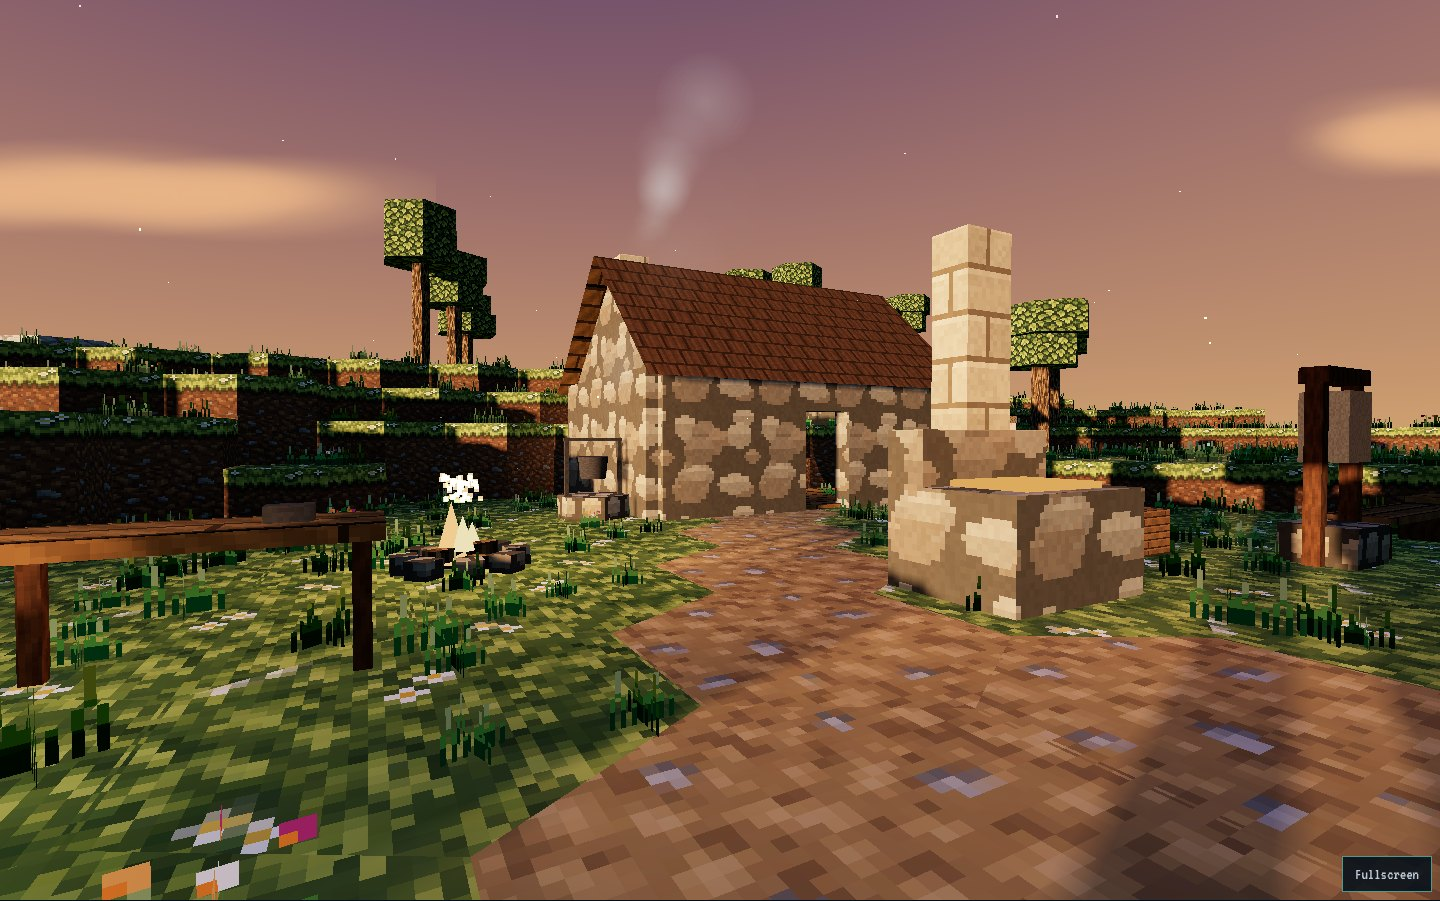
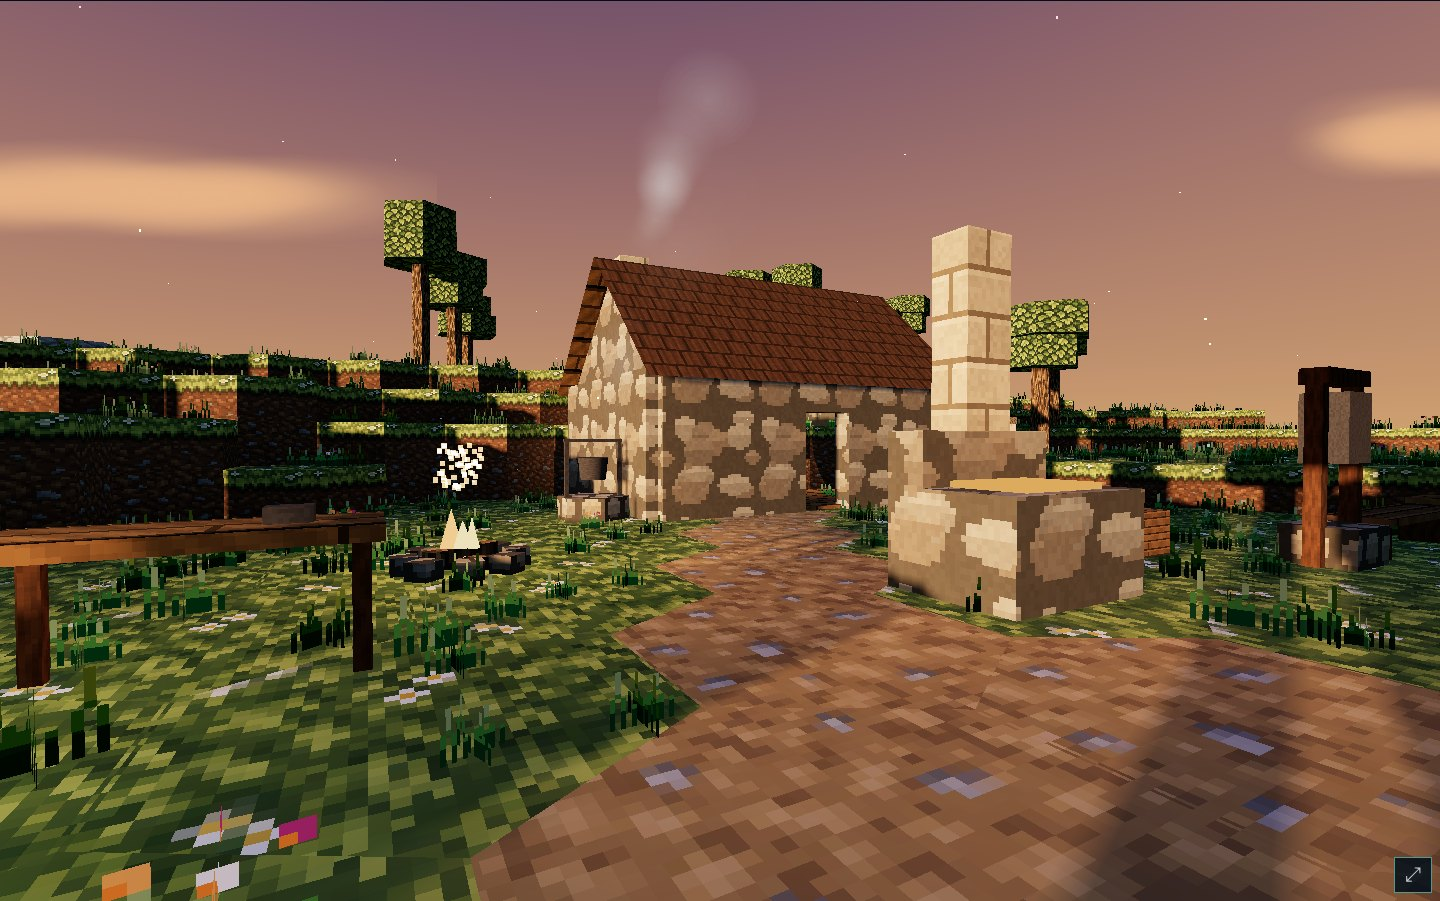
M29: info modals and a Play fullscreen button (published as v6, in progress)
The owner: "Too much text on screen ... Where's the full screen button,
should open in horizontal", then "Republish". Published at the owner's
ask before the agent's full test run: loads with no errors on desktop
and a Pixel 7 profile; tab text behind info buttons; a large Play
fullscreen button and a corner icon; landscape lock requested. The iOS
rotate-to-landscape fallback is not confirmed yet.

Claude-Session: https://claude.ai/code/session_01HdzuTLFpHQDj3CqFAuBEus

diff --git a/docs/mockups/ui.html b/docs/mockups/ui.html
@@ -200,8 +200,26 @@ table.t td, table.t th { border-bottom: 1px solid var(--page-line); padding: 3px
 .touchpad .tbtns { position: absolute; right: 10px; bottom: 60px; display: grid; grid-template-columns: repeat(2, 64px); gap: 6px; pointer-events: auto; }
 .touchpad .tbtns button { font: 15px var(--body); min-height: 44px; background: rgba(1,14,26,.7); color: var(--page-text); border: 1px solid rgba(146,163,178,.7); border-radius: 6px; touch-action: manipulation; }
 .touchpad.menu .look, .touchpad.menu .stick { display: none; }
+.playwrap .stage:not(.full) .touchpad { display: none; } /* the touch controls are for fullscreen; in the page the view is too small to steer */
 .playwrap.fs .hint, .playwrap:fullscreen .hint { display: none; }
-.rotate-hint { font: 15px var(--body); color: var(--page-dim); margin: 4px 0; }
+.infobtn { font: 600 15px/1 var(--body); width: 30px; height: 30px; border-radius: 50%; border: 1px solid var(--rune-dim); background: var(--page-2); color: var(--rune); cursor: pointer; vertical-align: middle; margin-left: 8px; }
+.titlerow { display: flex; align-items: center; gap: 4px; flex-wrap: wrap; }
+.titlerow h1, .titlerow h2 { margin-right: 4px; }
+dialog.infomodal { max-width: min(760px, 94vw); max-height: 86vh; max-height: 86dvh; padding: 0; border: 4px solid var(--stone-2); outline: 2px solid var(--ink); background: var(--page-2); color: var(--page-text); }
+dialog.infomodal::backdrop { background: rgba(1, 14, 26, .72); }
+dialog.infomodal .mhead { position: sticky; top: 0; display: flex; justify-content: space-between; align-items: center; gap: 8px; padding: 10px 14px; background: var(--face); border-bottom: 2px solid var(--stone-0); }
+dialog.infomodal .mhead b { font: 600 18px/1.2 var(--display); color: var(--title); }
+dialog.infomodal .mhead button { font: 18px var(--body); min-width: 40px; min-height: 40px; background: var(--page-2); color: var(--page-text); border: 1px solid var(--page-line); cursor: pointer; }
+dialog.infomodal .mbody { padding: 10px 16px 16px; overflow: auto; }
+dialog.infomodal .mbody .ask, dialog.infomodal .mbody p { max-width: none; }
+.playstart { position: absolute; inset: 0; z-index: 25; display: flex; flex-direction: column; align-items: center; justify-content: center; gap: 10px; background: rgba(1, 14, 26, .35); cursor: pointer; }
+.playstart button { font: 600 22px/1 var(--display); padding: 16px 26px; min-height: 56px; background: var(--face); color: var(--title); border: 3px solid var(--stone-3); outline: 2px solid var(--ink); cursor: pointer; }
+.playstart span { font: 15px var(--body); color: var(--page-text); background: rgba(1, 14, 26, .7); padding: 2px 8px; }
+.fsbtn.icon { font: 20px/1 var(--body); padding: 6px 10px; }
+.playwrap .stage { position: relative; width: 100%; height: 100%; }
+.playwrap .stage.full { position: absolute; left: 0; top: 0; width: 100vw; height: 100vh; height: 100dvh; }
+.playwrap .stage.full.rot { width: 100vh; width: 100dvh; height: 100vw; height: 100dvw; transform: rotate(90deg) translateY(-100%); transform-origin: top left; }
+
 @media (prefers-reduced-motion: reduce) { * { transition: none !important; } }
 @media (max-width: 480px) { header.top h1 { font-size: 24px; } header.top p { font-size: 15px; } p.note { font-size: 15px; } nav.tabs a { font-size: 14px; padding: 10px 6px 8px; } }
 </style>
@@ -210,10 +228,10 @@ table.t td, table.t th { border-bottom: 1px solid var(--page-line); padding: 3px
 <header class="top">
   <h1>Stone and Timber</h1>
   <p class="pbd-tracker"><a href="https://claude.ai/artifact/EwNcNzHQU3B7C3jyi629Wk" target="_blank" rel="noopener">All Pale Blue Dot mockups (the tracker)</a></p>
-  <p>The owner, 2026-11-14: <em>"show me the game with that 3d rendered look"</em>, <em>"yea the 3d rendered look as a whole kit, also make the menus interactive please"</em>, <em>"make a 3js demo"</em>, <em>"do all three"</em>, <em>"main menu I think should use the timber stuff, but the game I like the rock stuff, just need to determine which rock thing to use"</em>, <em>"pause menu = timber too"</em>. So: <b>carved oak for the menus out of play</b> (title screen, pause, settings), <b>rock and slate-blue stone for everything in play</b> (HUD, pack, map, machines, talk and trade). Every piece exists three ways; the switch below swaps the whole page, the demo included. Design: <code>openspec/changes/stone-and-wood-ui</code>. Desktop only.</p>
+  <p class="info">The owner, 2026-11-14: <em>"show me the game with that 3d rendered look"</em>, <em>"yea the 3d rendered look as a whole kit, also make the menus interactive please"</em>, <em>"make a 3js demo"</em>, <em>"do all three"</em>, <em>"main menu I think should use the timber stuff, but the game I like the rock stuff, just need to determine which rock thing to use"</em>, <em>"pause menu = timber too"</em>. So: <b>carved oak for the menus out of play</b> (title screen, pause, settings), <b>rock and slate-blue stone for everything in play</b> (HUD, pack, map, machines, talk and trade). Every piece exists three ways; the switch below swaps the whole page, the demo included. Design: <code>openspec/changes/stone-and-wood-ui</code>. Desktop only.</p>
   <div class="lookbar"><span>Look:</span><div class="seg" id="lookSeg" role="group" aria-label="Look of the kit">
     <button data-look="drawn" aria-pressed="true">Drawn</button><button data-look="rendered" aria-pressed="false">Rendered (pixelated)</button><button data-look="smooth" aria-pressed="false">Smooth (Cycles)</button></div>
-    <span class="note" style="color:var(--page-dim)">Drawn: pixel by pixel (<code>ui_art.py</code>). Rendered: modelled in Blender, Cycles on the CPU (no GPU here), reduced to the same pixels and palette. Smooth: the 8x render itself, sampled linear (breaks the nearest-sampling rule: a question, not a decision).</span></div>
+    <span class="info">Drawn: pixel by pixel (<code>ui_art.py</code>). Rendered: modelled in Blender, Cycles on the CPU (no GPU here), reduced to the same pixels and palette. Smooth: the 8x render itself, sampled linear (breaks the nearest-sampling rule: a question, not a decision).</span></div>
 </header>
 <nav class="tabs" role="tablist" aria-label="Screens">
   <a href="#play" role="tab"><span>Play</span></a>
@@ -231,11 +249,11 @@ table.t td, table.t th { border-bottom: 1px solid var(--page-line); padding: 3px
 
 <!-- ================================ PLAY ================================ -->
 <section class="tab" id="play" role="tabpanel">
-  <h2>Play: a hillside to walk around</h2>
+  <h2>Play</h2>
   <p class="note">A small patch of Tenebris in three.js r128: hex columns 2.833 m across and 1 m high, the game's atlas tiles sampled nearest, a stream with a water wheel, a stone workshop, machines. <b>Click the view</b> to walk (pointer lock; drag to look if the lock is refused). WASD, Space to jump, mouse to look. Left click digs the block you look at into the pack, right click places the selected block. <b>E</b> uses what you face: the bench, the forge and bellows, the hearth, the mill, the press, the chest, or Wren the smith. <b>Esc</b> pauses (timber), <b>I</b> or <b>Tab</b> the pack, <b>M</b> the map, 1-0 and the wheel pick a slot. Keys act only while the view has focus. The frame rate was not measured here (no GPU; SwiftShader).</p>
+  <div class="row" id="playScenes"></div>
   <div class="playctl"><div class="seg" id="todSeg"><button data-t="17.6" aria-pressed="true">Golden hour</button><button data-t="12" aria-pressed="false">Day</button><button data-t="19.2" aria-pressed="false">Dusk</button><button data-t="23" aria-pressed="false">Night</button></div>
     <label>Time <input type="range" id="todRange" min="0" max="24" step="0.1" value="17.6"> <span id="todVal">17:36</span></label></div>
-  <div class="row" id="playScenes"></div>
 </section>
 
 <!-- ================================ TITLE ================================ -->
@@ -259,7 +277,7 @@ table.t td, table.t th { border-bottom: 1px solid var(--page-line); padding: 3px
   <p class="note">The owner, of a <em>PACK</em> lintel that read as PAOK in Pixelify Sans: <em>"the c there is kinda weird, which you'd fix it"</em>. Every title, plaque and tab label, section label, compass letter and key cap is now drawn in the kit's own 5 x 7 pixel font (<code>ui/font/kit-font.png</code> and <code>.json</code>, by <code>ui_art.py</code>): C and G open, E flat-backed, 0 slashed against O, 1 flagged against I. Body text stays VT323.</p>
   <div class="row big2" id="fontRow"></div>
 
-  <h2>The rock had lines</h2>
+  <h2 class="info">The rock had lines</h2>
   <p class="note">The owner: <em>"how come the rock one has lines in it?"</em>, then <em>"the 3d rendered one"</em>. The old render's rim had strata made as rings of equal distance from the edge (<code>sin(d * 3.1) &gt; 0.92</code>), which read as straight stitched lines; the drawn rock had evenly spaced dashes on rows 5 and 42. Both are now isotropic rock: Voronoi chips and pits, short cracks of varied length and angle, speckle, periodic in the 20 px tile. Before and after: <code>docs/screenshots/mockup-ui/rock-lines-before-after.png</code>.</p>
 
   <h2>The base rock (approved)</h2>
@@ -273,12 +291,12 @@ table.t td, table.t th { border-bottom: 1px solid var(--page-line); padding: 3px
   <h2>Every piece</h2>
   <div class="row big2" id="pieces"></div>
 
-  <h2>Contrast, measured</h2>
+  <h2 class="info">Contrast, measured</h2>
   <p class="note">Every text pair a player reads is at least 4.5:1 in every look. Drawn: measured on the tokens by <code>ui_art.py</code>. Rendered: on the commonest colour of each text area, and on any colour that covers a tenth of it. Smooth: on the 10th, 50th and 90th luminance percentile of the area. The oak disabled plaque was darkened a step (WOOD[0]) after the smooth render measured 4.4:1.</p>
   <div class="scrollx"><table class="t" id="contrast"></table></div>
 
-  <h2>Materials and tokens</h2>
-  <div id="tokens"></div>
+  <h2 class="info">Materials and tokens</h2>
+  <div id="tokens" class="info"></div>
 </section>
 
 <!-- ================================ HUD ================================ -->

diff --git a/docs/mockups/ui/play.js b/docs/mockups/ui/play.js
@@ -531,36 +531,45 @@ varying vec3 vWP; uniform vec4 uLP[${MAXL}]; uniform vec4 uLC[${MAXL}]; uniform 
     sc.append(canvas, ui, h('div', { class: 'hint', id: 'playHint' }, touch ? 'left: walk; drag right: look; buttons: jump, use, dig, place' : 'click to walk: WASD, Space, mouse; E use, Esc pause, I pack, M map'));
     // The view scales as one picture to fit the page, or the whole screen in fullscreen.
     const inner = h('div', { class: 'scenebox', style: `width:${1440 * k}px;max-width:none;overflow:hidden;transform-origin:0 0` }, sc);
-    const wrap = h('div', { class: 'playwrap' }, inner);
-    const fsBtn = h('button', { class: 'fsbtn', type: 'button', 'aria-label': 'Fullscreen' }, 'Fullscreen');
-    wrap.append(fsBtn);
-    if (touch) box.append(h('div', { class: 'rotate-hint' }, 'Turn the phone sideways and tap Fullscreen to play.'));
+    // wrap is what goes fullscreen; stage holds the view and its controls, and turns sideways when a
+    // portrait phone cannot be locked to landscape (the browser's own fullscreen styles forbid
+    // transforming the fullscreen element itself)
+    const stage = h('div', { class: 'stage' }, inner);
+    const wrap = h('div', { class: 'playwrap' }, stage);
+    const fsBtn = h('button', { class: 'fsbtn icon', type: 'button', 'aria-label': 'Fullscreen', title: 'Fullscreen', 'data-act': 'fs' }, '⤢');
+    const start = h('div', { class: 'playstart' }, h('button', { type: 'button', 'data-act': 'play-fs' }, '▶ Play fullscreen'), h('span', {}, touch ? 'or tap to watch here' : 'or click to play here'));
+    stage.append(fsBtn, start);
     box.append(wrap);
+    const isFull = () => wrap.classList.contains('fs') || document.fullscreenElement === wrap;
     const fit = () => {
-      const full = wrap.classList.contains('fs') || document.fullscreenElement === wrap;
-      const aw = full ? window.innerWidth : Math.min(window.PBDUI.mainWidth(), box.clientWidth || 1e9), ah = full ? window.innerHeight : Infinity;
+      const full = isFull(), rot = full && window.innerHeight > window.innerWidth;
+      stage.classList.toggle('rot', rot); S && (S.rot = rot);
+      const vw = rot ? window.innerHeight : window.innerWidth, vh = rot ? window.innerWidth : window.innerHeight;
+      const aw = full ? vw : Math.min(window.PBDUI.mainWidth(), box.clientWidth || 1e9), ah = full ? vh : Infinity;
       const f = full ? Math.min(aw / (1440 * k), ah / (900 * k)) : Math.min(1, aw / (1440 * k));
       inner.style.transform = f === 1 ? '' : `scale(${f})`;
-      if (!full) { wrap.style.width = Math.floor(1440 * k * f) + 'px'; wrap.style.height = Math.ceil(900 * k * f) + 'px'; inner.style.position = ''; }
-      else { wrap.style.width = ''; wrap.style.height = ''; inner.style.position = 'absolute'; inner.style.left = Math.round((aw - 1440 * k * f) / 2) + 'px'; inner.style.top = Math.round((ah - 900 * k * f) / 2) + 'px'; }
-      fsBtn.textContent = full ? '\u2715 Exit' : 'Fullscreen';
+      if (!full) { wrap.style.width = Math.floor(1440 * k * f) + 'px'; wrap.style.height = Math.ceil(900 * k * f) + 'px'; inner.style.position = ''; stage.classList.remove('full'); }
+      else { wrap.style.width = ''; wrap.style.height = ''; stage.classList.add('full'); inner.style.position = 'absolute'; inner.style.left = Math.round((aw - 1440 * k * f) / 2) + 'px'; inner.style.top = Math.round((ah - 900 * k * f) / 2) + 'px'; }
+      fsBtn.textContent = full ? '✕' : '⤢'; fsBtn.setAttribute('aria-label', full ? 'Exit fullscreen' : 'Fullscreen');
     };
-    fsBtn.addEventListener('click', (e) => {
-      e.stopPropagation();
-      const full = wrap.classList.contains('fs') || document.fullscreenElement === wrap;
-      if (full) { if (document.fullscreenElement) document.exitFullscreen().catch(() => {}); wrap.classList.remove('fs'); fit(); return; }
-      const fallback = () => { wrap.classList.add('fs'); fit(); };
-      if (wrap.requestFullscreen) wrap.requestFullscreen().then(fit).catch(fallback); else fallback();
-    });
+    const goFull = () => {
+      const after = () => { const o = screen.orientation; if (o && o.lock) o.lock('landscape').catch(() => {}).finally(fit); fit(); };
+      const fallback = () => { wrap.classList.add('fs'); after(); };
+      if (wrap.requestFullscreen) wrap.requestFullscreen().then(after).catch(fallback); else fallback();
+    };
+    const leaveFull = () => { if (document.fullscreenElement) document.exitFullscreen().catch(() => {}); wrap.classList.remove('fs'); fit(); };
+    fsBtn.addEventListener('click', (e) => { e.stopPropagation(); start.remove(); if (isFull()) leaveFull(); else goFull(); });
+    start.addEventListener('click', (e) => { e.stopPropagation(); start.remove(); if (e.target.closest('button')) goFull(); sc.focus({ preventScroll: true }); });
     document.addEventListener('fullscreenchange', () => { if (!document.fullscreenElement) wrap.classList.remove('fs'); fit(); });
     window.addEventListener('resize', () => fit());
+    window.addEventListener('orientationchange', () => setTimeout(fit, 200));
     const renderer = new THREE.WebGLRenderer({ canvas, antialias: false, powerPreference: 'high-performance' });
     renderer.setPixelRatio(1); renderer.setSize(1440 * k, 900 * k, false); // pixel ratio 1 everywhere, so a phone's GPU draws 720 x 450
     renderer.outputEncoding = THREE.sRGBEncoding; renderer.toneMapping = THREE.ACESFilmicToneMapping; renderer.toneMappingExposure = 1.0;
     renderer.shadowMap.enabled = true; renderer.shadowMap.type = THREE.PCFSoftShadowMap;
     const scene = new THREE.Scene(); scene.fog = new THREE.Fog(0xb8d4ec, 55, 210);
     const camera = new THREE.PerspectiveCamera(70, 1440 / 900, 0.1, 900);
-    S = { touch, wrap, fit, renderer, scene, camera, sc, canvas, keys: {}, joy: { x: 0, y: 0 }, t: 0, frames: 0, running: {}, stats: { digs: 0, used: [] }, focus: new THREE.Vector3(48, 3, 44), town: [380, -920] };
+    S = { touch, wrap, stage, fit, goFull, renderer, scene, camera, sc, canvas, keys: {}, joy: { x: 0, y: 0 }, t: 0, frames: 0, running: {}, stats: { digs: 0, used: [] }, focus: new THREE.Vector3(48, 3, 44), town: [380, -920] };
     S.land = makeLand();
     S.sunL = new THREE.DirectionalLight(0xffffff, 2.5); S.sunL.castShadow = true; S.sunL.shadow.mapSize.set(touch ? 1024 : 2048, touch ? 1024 : 2048);
     Object.assign(S.sunL.shadow.camera, { left: -48, right: 48, top: 48, bottom: -48, near: 1, far: 220 }); S.sunL.shadow.bias = -0.0006; S.sunL.shadow.normalBias = 0.03;
@@ -618,7 +627,7 @@ varying vec3 vWP; uniform vec4 uLP[${MAXL}]; uniform vec4 uLC[${MAXL}]; uniform 
     seg.addEventListener('click', (e) => { const b = e.target.closest('button'); if (!b) return; rng.value = b.dataset.t; setTime(+b.dataset.t); seg.querySelectorAll('button').forEach((x) => x.setAttribute('aria-pressed', String(x === b))); });
     rng.addEventListener('input', () => { setTime(+rng.value); seg.querySelectorAll('button').forEach((x) => x.setAttribute('aria-pressed', 'false')); });
     setTime(+rng.value);
-    if (touch) touchControls(wrap);
+    if (touch) touchControls(stage);
     fit();
     step(0);
   }
@@ -633,13 +642,13 @@ varying vec3 vWP; uniform vec4 uLP[${MAXL}]; uniform vec4 uLC[${MAXL}]; uniform 
     wrap.append(pad); S.pad = pad;
     let sid = null, c0 = null;
     stick.addEventListener('pointerdown', (e) => { sid = e.pointerId; stick.setPointerCapture(e.pointerId); const r = stick.getBoundingClientRect(); c0 = [r.left + r.width / 2, r.top + r.height / 2]; move(e); });
-    const move = (e) => { if (e.pointerId !== sid) return; const dx = (e.clientX - c0[0]) / 50, dy = (e.clientY - c0[1]) / 50, l = Math.max(1, Math.hypot(dx, dy)); S.joy.x = dx / l; S.joy.y = dy / l; stick.firstChild.style.transform = `translate(${S.joy.x * 40}px, ${S.joy.y * 40}px)`; };
+    const move = (e) => { if (e.pointerId !== sid) return; let dx = (e.clientX - c0[0]) / 50, dy = (e.clientY - c0[1]) / 50; if (S.rot) [dx, dy] = [dy, -dx]; const l = Math.max(1, Math.hypot(dx, dy)); S.joy.x = dx / l; S.joy.y = dy / l; stick.firstChild.style.transform = `translate(${S.joy.x * 40}px, ${S.joy.y * 40}px)`; };
     stick.addEventListener('pointermove', move);
     const end = (e) => { if (e.pointerId !== sid) return; sid = null; S.joy.x = S.joy.y = 0; stick.firstChild.style.transform = ''; };
     stick.addEventListener('pointerup', end); stick.addEventListener('pointercancel', end);
     let lid = null, lp = null;
     look.addEventListener('pointerdown', (e) => { lid = e.pointerId; look.setPointerCapture(e.pointerId); lp = [e.clientX, e.clientY]; });
-    look.addEventListener('pointermove', (e) => { if (e.pointerId !== lid) return; S.player.yaw -= (e.clientX - lp[0]) * 0.006; S.player.pitch = Math.max(-1.45, Math.min(1.45, S.player.pitch - (e.clientY - lp[1]) * 0.006)); lp = [e.clientX, e.clientY]; });
+    look.addEventListener('pointermove', (e) => { if (e.pointerId !== lid) return; let dx = e.clientX - lp[0], dy = e.clientY - lp[1]; if (S.rot) [dx, dy] = [dy, -dx]; S.player.yaw -= dx * 0.006; S.player.pitch = Math.max(-1.45, Math.min(1.45, S.player.pitch - dy * 0.006)); lp = [e.clientX, e.clientY]; });
     look.addEventListener('pointerup', () => { lid = null; }); look.addEventListener('pointercancel', () => { lid = null; });
   }
   window.PBDPlay = {

diff --git a/docs/mockups/ui/game-ui.js b/docs/mockups/ui/game-ui.js
@@ -778,14 +778,15 @@
     for (const n of STONE) { const [w, hh] = dims(n); pc.append(h('div', { class: 'card', style: 'text-align:center' }, ki('i-' + n, n.startsWith('fill') ? 8 : w, n.startsWith('fill') ? 8 : hh), h('div', { class: 'cap' }, n))); }
     for (const n of OAK) { const [w, hh] = dims(n); pc.append(h('div', { class: 'card', style: 'text-align:center' }, ki('o-' + n, w, hh), h('div', { class: 'cap' }, 'oak/' + n))); }
     // contrast, three looks
-    const ct = document.getElementById('contrast');
+    const byId = (id) => document.getElementById(id) || Object.values(INFO).map((i) => i.box.querySelector('#' + id)).find(Boolean); // the tables live in the Kit's info modal
+    const ct = byId('contrast');
     Promise.all([fetch('ui/slices.json').then((r) => r.json()), fetch('ui/rendered/slices.json').then((r) => r.json())]).then(([d, r]) => {
       ct.append(h('tr', {}, h('th', {}, 'Drawn pair (tokens)'), h('th', {}, 'Ratio')));
       for (const [k, v] of Object.entries(d.contrast)) ct.append(h('tr', {}, h('td', {}, k), h('td', {}, v + ':1')));
       ct.append(h('tr', {}, h('th', {}, 'Rendered and smooth piece: token'), h('th', {}, 'Rendered / smooth')));
       for (const [k, v] of Object.entries(r.contrast)) for (const [t, x] of Object.entries(v)) ct.append(h('tr', {}, h('td', {}, `${k}: ${t}`), h('td', {}, `${x}:1 / ${r.contrast_smooth[k][t]}:1`)));
     }).catch(() => ct.append(h('tr', {}, h('td', {}, 'contrast tables load from ui/slices.json and ui/rendered/slices.json'))));
-    const tok = document.getElementById('tokens');
+    const tok = byId('tokens');
     for (const [n, cs] of [['STONE 0..4 (+ STONE_MID)', '#011c34 #1f3b52 #3e586e #5d778d #92a3b2 #bfcad7'], ['ROCK 0..4', '#010e1a #1f3b52 #3e586e #5d778d #92a3b2'], ['OAK 0..4 (timber menus, accents)', '#2f1525 #41322c #725244 #ab8465 #cfaa81'],
       ['IRON', '#010000 #161612 #2c2c25 #434137 #a09f91'], ['BRASS', '#733126 #c56d25 #fb902f #faaf5c'], ['RUNE (focus, selection)', '#204f63 #53998b #84e3b5 #c1f1d8'], ['TEXT, TEXT_DIM, TITLE, LABEL, LABEL_DIM, TAB_DIM', '#eab798 #cfaa81 #faaf5c #fffefe #92a3b2 #bfcad7']])
       tok.append(h('span', { class: 'tok' }, ...cs.split(' ').map((c) => h('i', { style: `background:${c}`, title: c })), n));
@@ -813,7 +814,39 @@
   let lastW = 0;
   window.addEventListener('resize', () => { clearTimeout(rz); rz = setTimeout(() => { const k = sceneScale(), w = mainWidth(); if (k !== lastK || (w !== lastW && w < 1440)) { lastK = k; lastW = w; const id = (location.hash || '#play').slice(1); if (id !== 'play' && id !== 'kit' && R[id]) R[id](); } }, 150); });
 
-  window.PBDUI = { COARSE, mainWidth, GameUI, P, h, btn, slotEl, ITEMS, BLOCKS, newInv, STATIONS, scene, compass, setLook, get look() { return LOOK; }, UIS };
+  // ------------------------------------------------------------------ descriptive text in modals
+  // CLAUDE.md, "Descriptive text goes in modals" (owner, 2026-11-14: "Too much text on screen.
+  // Descriptive Text on all mockups belong in modals"). The screen keeps the scenes, the controls, a
+  // short title per tab and the tracker link; every note, decision, caption and table moves into the
+  // tab's info modal, opened from the small i button by the title.
+  const dlg = h('dialog', { class: 'infomodal', 'aria-label': 'About this' });
+  const dTitle = h('b', {}), dBody = h('div', { class: 'mbody' });
+  dlg.append(h('div', { class: 'mhead' }, dTitle, h('button', { type: 'button', 'aria-label': 'Close', onclick: () => dlg.close() }, '\u2715')), dBody);
+  dlg.addEventListener('click', (e) => { if (e.target === dlg) dlg.close(); });
+  document.body.append(dlg);
+  const INFO = {};
+  function infoButton(key, title, nodes) {
+    const box = h('div', {}); nodes.forEach((n) => box.append(n));
+    INFO[key] = { title, box };
+    return h('button', { class: 'infobtn', type: 'button', 'aria-label': 'About: ' + title, title: 'About this', 'data-info': key, onclick: () => openInfo(key) }, 'i');
+  }
+  function openInfo(key) {
+    const it = INFO[key]; dTitle.textContent = it.title; dBody.innerHTML = ''; dBody.append(it.box);
+    if (dlg.showModal) dlg.showModal(); else dlg.setAttribute('open', '');
+  }
+  (function moveText() {
+    const head = document.querySelector('header.top'), h1 = head.querySelector('h1');
+    const hn = [...head.querySelectorAll('.info')];
+    const row = h('div', { class: 'titlerow' }); h1.replaceWith(row); row.append(h1, infoButton('page', 'Stone and Timber', hn));
+    for (const sec of document.querySelectorAll('section.tab')) {
+      const h2 = sec.querySelector('h2'); if (!h2) continue;
+      const nodes = [...sec.querySelectorAll('p.note, .ask, .info, .scrollx, .tok')].filter((n) => !n.parentElement.closest('p.note, .ask, .info, .scrollx'));
+      // a kit subsection title whose only content moved goes with it
+      const tr = h('div', { class: 'titlerow' }); h2.replaceWith(tr); tr.append(h2, infoButton(sec.id, h2.textContent, nodes));
+    }
+  })();
+
+  window.PBDUI = { openInfo, COARSE, mainWidth, GameUI, P, h, btn, slotEl, ITEMS, BLOCKS, newInv, STATIONS, scene, compass, setLook, get look() { return LOOK; }, UIS };
   Promise.all([
     fetch('ui/font/kit-font.json').then((r) => r.json()).then((f) => { FONT = f; }).catch(() => { /* fallback text */ }),
     fetch('ui/rendered/slices.json').then((r) => r.json()).then((j) => { ROCKS = j.rock_panels || {}; }).catch(() => { /* drawn rock only */ }),
